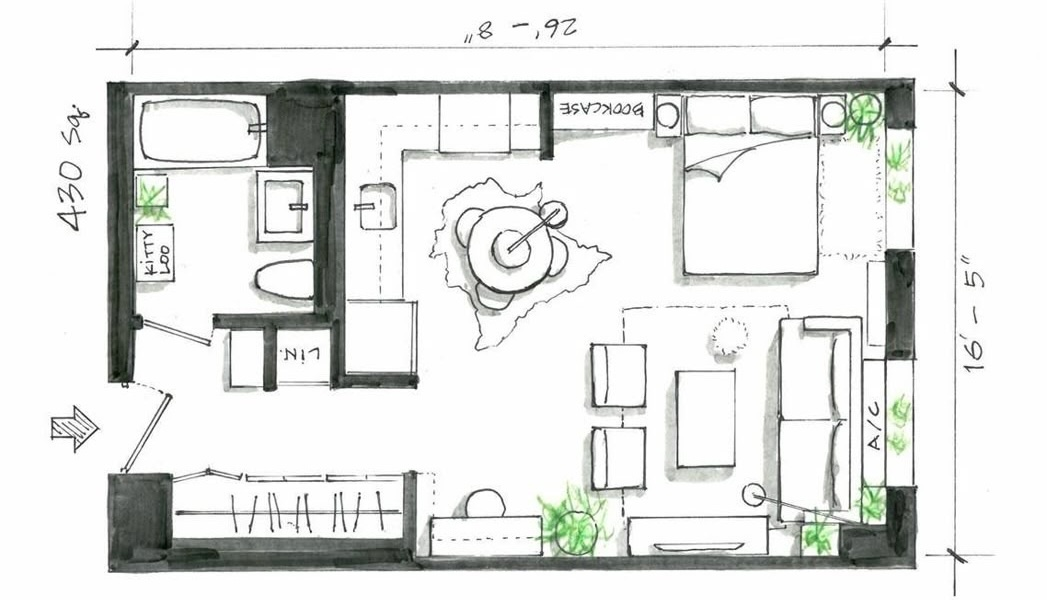
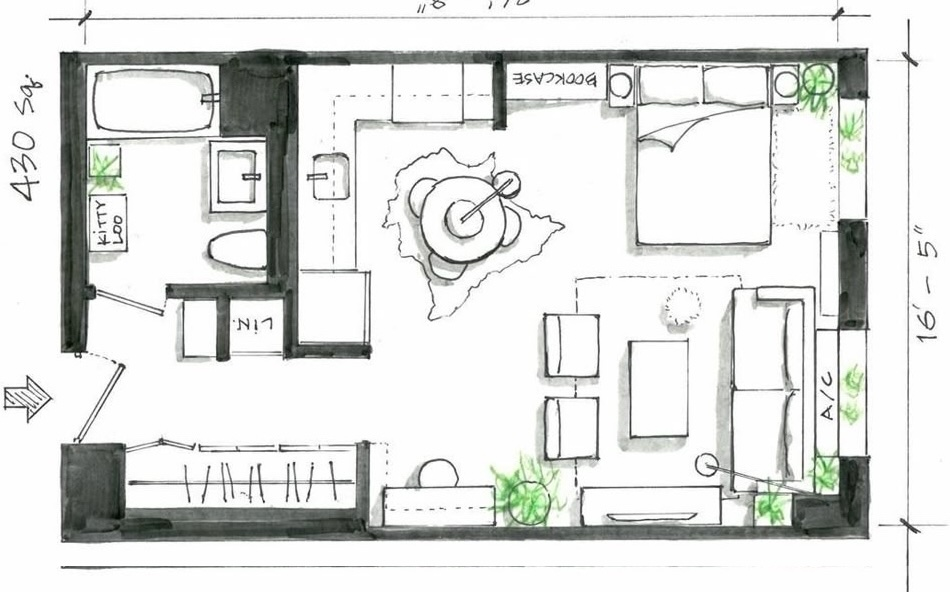
new design

diff --git a/src/index.css b/src/index.css
@@ -12,23 +12,56 @@
 }
 
 @plugin "daisyui/theme" {
-  name: "urbanhub";
-  default: true;
+  name: "uh-light";
   prefersdark: false;
   color-scheme: "light";
   --color-base-100: oklch(100% 0 0);
   --color-base-200: oklch(98% 0 0);
   --color-base-300: oklch(95% 0 0);
-  --color-base-content: oklch(21% 0.006 285.885);
-  --color-primary: #27548a;
-  --color-primary-content: #f0f4f8;
-  --color-secondary: #dda852;
-  --color-secondary-content: oklch(94% 0.028 342.258);
-  --color-accent: oklch(77% 0.152 181.912);
-  --color-accent-content: oklch(38% 0.063 188.416);
+  --color-base-content: oklch(0.293 0.041 280.8);
+  --color-primary: oklch(0.8693 0.204 94.27);
+  --color-primary-content: oklch(0.293 0.041 280.8);
+  --color-secondary: #5c63f5;
+  --color-secondary-content: #ffffff;
+  --color-accent: #3a44f1;
+  --color-accent-content: #eeedec;
   --color-neutral: oklch(14% 0.005 285.823);
   --color-neutral-content: oklch(92% 0.004 286.32);
-  --color-info: oklch(74% 0.16 232.661);
+  --color-info: #dee0fd;
+  --color-info-content: oklch(29% 0.066 243.157);
+  --color-success: oklch(76% 0.177 163.223);
+  --color-success-content: oklch(37% 0.077 168.94);
+  --color-warning: oklch(82% 0.189 84.429);
+  --color-warning-content: oklch(41% 0.112 45.904);
+  --color-error: oklch(71% 0.194 13.428);
+  --color-error-content: oklch(27% 0.105 12.094);
+  --radius-selector: 1rem;
+  --radius-field: 0.5rem;
+  --radius-box: 1rem;
+  --size-selector: 0.25rem;
+  --size-field: 0.25rem;
+  --border: 1px;
+  --depth: 1;
+  --noise: 0;
+}
+
+@plugin "daisyui/theme" {
+  name: "uh-dark";
+  prefersdark: true;
+  color-scheme: "dark";
+  --color-base-100: oklch(0.293 0.041 280.8);
+  --color-base-200: #505066;
+  --color-base-300: #737384;
+  --color-base-content: #eeedec;
+  --color-primary: oklch(0.8693 0.204 94.27);
+  --color-primary-content: oklch(0.293 0.041 280.8);
+  --color-secondary: #5c63f5;
+  --color-secondary-content: #ffffff;
+  --color-accent: #3a44f1;
+  --color-accent-content: #eeedec;
+  --color-neutral: oklch(14% 0.005 285.823);
+  --color-neutral-content: oklch(92% 0.004 286.32);
+  --color-info: #dee0fd;
   --color-info-content: oklch(29% 0.066 243.157);
   --color-success: oklch(76% 0.177 163.223);
   --color-success-content: oklch(37% 0.077 168.94);
@@ -97,10 +130,17 @@
   --rdp-accent-color: var(--color-primary);
   --rdp-months-gap: theme("spacing.4");
   font-size: theme("fontSize.sm");
+
+  --rdp-range_start-color: var(--color-primary-content);
+  --rdp-range_end-color: var(--color-primary-content);
+  --rdp-today-color: var(--color-primary-content);
+  --rdp-range_middle-background-color: var(--color-base-300);
 }
 .rdp-selected {
   font-size: inherit;
+  color: var(--color-primary-content);
 }
 .rdp-today {
   font-weight: bold;
+  color: var(--color-base-content) !important;
 }

diff --git a/src/screens/HomeScreen/widgets/MoodWidget.tsx b/src/screens/HomeScreen/widgets/MoodWidget.tsx
@@ -72,7 +72,7 @@ export function MoodWidget({ className }: MoodWidgetProps) {
                 key={id}
                 className={classNames(
                   "btn btn-sm",
-                  selectedMood === id && "btn-primary",
+                  selectedMood === id && "btn-secondary",
                 )}
                 style={{ fontWeight: selectedMood === id ? 500 : 400 }}
                 onClick={() => handleMoodClick(id)}
@@ -92,7 +92,7 @@ export function MoodWidget({ className }: MoodWidgetProps) {
               min="0"
               max="100"
               value={75}
-              className="range range-primary range-sm"
+              className="range range-secondary range-sm"
             />
           </div>
 
@@ -106,7 +106,7 @@ export function MoodWidget({ className }: MoodWidgetProps) {
               min="0"
               max="100"
               value={50}
-              className="range range-primary range-sm"
+              className="range range-secondary range-sm"
             />
           </div>
 
@@ -126,7 +126,7 @@ export function MoodWidget({ className }: MoodWidgetProps) {
                   key={color}
                   className={classNames(
                     "flex h-7 w-7 items-center justify-center rounded-full border-2",
-                    i === 1 ? "border-primary" : "border-transparent",
+                    i === 1 ? "border-secondary" : "border-transparent",
                   )}
                   style={{ backgroundColor: undefined }}
                 >
@@ -148,7 +148,7 @@ export function MoodWidget({ className }: MoodWidgetProps) {
               min="0"
               max="100"
               value={0}
-              className="range range-primary range-sm"
+              className="range range-secondary range-sm"
             />
           </div>
 
@@ -196,7 +196,7 @@ function MoodButton({ label, icon: Icon, selected, onClick }: MoodButtonProps) {
     <div
       className={classNames(
         "flex cursor-pointer items-center gap-3 rounded-md bg-base-300 px-2 py-2.5 transition-colors",
-        selected && "bg-primary/10 text-primary",
+        selected && "bg-secondary/10!",
       )}
       onClick={onClick}
     >

diff --git a/src/screens/HomeScreen/widgets/AmenityWidget.tsx b/src/screens/HomeScreen/widgets/AmenityWidget.tsx
@@ -1,10 +1,10 @@
 import classNames from "classnames";
 import { format } from "date-fns";
 import { ChevronDownIcon, type LucideIcon } from "lucide-react";
-import { Money } from "~/components/Money";
-import { OccupancyChart } from "~/components/OccupancyChart";
 
 import { BaseWidget } from "./BaseWidget";
+import { Money } from "~/components/Money";
+import { OccupancyChart } from "~/components/OccupancyChart";
 
 type OccupancyLevel = "low" | "mid" | "high" | "none";
 
@@ -68,7 +68,7 @@ export function AmenityWidget({
             <OccupancyChart />
           </div>
 
-          <div className="card bg-info/20 text-info-content card-sm">
+          <div className="card bg-info/50 text-info-content card-sm">
             <div className="card-body">
               <h3 className="card-title">Upgrade your stay</h3>
               <p>
@@ -87,7 +87,7 @@ export function AmenityWidget({
                     </span>
                     <span className="text-sm">/month</span>
                   </div>
-                  <button className="btn w-full btn-accent">Subscribe</button>
+                  <button className="btn w-full btn-primary">Subscribe</button>
                 </div>
 
                 <div className="flex=- divider mx-2 divider-horizontal text-info-content/60">
@@ -104,7 +104,7 @@ export function AmenityWidget({
                     </span>
                     <span className="text-sm">/day</span>
                   </div>
-                  <button className="btn w-full btn-primary">
+                  <button className="btn w-full btn-neutral">
                     Get Day Pass
                   </button>
                 </div>

diff --git a/src/screens/BookingFormScreen/SectionCard.tsx b/src/screens/BookingFormScreen/SectionCard.tsx
@@ -26,7 +26,7 @@ export function SectionCard({
     <div
       className={classNames(
         "flex flex-col rounded-box border-2 bg-base-100 shadow-lg transition-all duration-200",
-        isExpanded ? "flex-1 border-primary" : "border-transparent",
+        isExpanded ? "flex-1" : "border-transparent",
       )}
     >
       <button
@@ -39,7 +39,7 @@ export function SectionCard({
           className={classNames(
             "transition-all duration-200",
             isExpanded
-              ? "text-lg text-primary"
+              ? "text-lg text-base-content"
               : "text-sm text-base-content/50",
           )}
         >
@@ -49,7 +49,7 @@ export function SectionCard({
           <div
             className={classNames(
               "text-sm transition-all duration-200",
-              isExpanded ? "text-primary" : "text-base-content",
+              isExpanded ? "text-base-content" : "text-base-content",
             )}
           >
             {value}
@@ -57,7 +57,9 @@ export function SectionCard({
           <ChevronDown
             className={classNames(
               "h-4 w-4 transition-all duration-200",
-              isExpanded ? "rotate-180 text-primary" : "text-base-content/60",
+              isExpanded
+                ? "rotate-180 text-base-content"
+                : "text-base-content/60",
             )}
           />
         </div>

diff --git a/src/components/PricingChart.tsx b/src/components/PricingChart.tsx
@@ -51,7 +51,7 @@ export function PricingChart({
         {Array.from({ length: months }).map((_, i) => (
           <div
             key={i}
-            className="relative flex-1 cursor-pointer rounded-t-md bg-gray-300 hover:bg-gray-300/80 active:scale-98"
+            className="relative flex-1 cursor-pointer rounded-t-md bg-gray-200 hover:bg-gray-300/80 active:scale-98"
             style={{ height: calculateHeight(i) }}
             onClick={() => {
               setSelectedMonth(i);
@@ -75,7 +75,7 @@ export function PricingChart({
               <div
                 className={classNames(
                   "absolute bottom-full left-1/2 -translate-x-1/2",
-                  "pb-2 text-sm whitespace-nowrap text-primary",
+                  "pb-2 text-sm whitespace-nowrap",
                 )}
               >
                 <div className="flex flex-col items-center gap-1">

diff --git a/src/screens/HomeScreen/HomeScreen.tsx b/src/screens/HomeScreen/HomeScreen.tsx
@@ -37,7 +37,7 @@ export function HomeScreen() {
       <img
         src={blueprint}
         alt="Blueprint"
-        className="aspect-[1047/736] w-full"
+        className="mx-4 my-2 aspect-[950/592] w-[calc(100%-2rem)] rounded-box"
       />
 
       <div className="mx-8 flex justify-between">
@@ -61,7 +61,7 @@ export function HomeScreen() {
 
       <div className="m-4 flex flex-col gap-2">
         <Link to="/sublease">
-          <div className="card cursor-pointer bg-accent text-accent-content transition-all duration-200 select-none hover:bg-accent/80 active:scale-98">
+          <div className="card cursor-pointer bg-primary text-primary-content transition-all duration-200 select-none hover:bg-primary/80 active:scale-98">
             <div className="card-body">
               <button
                 className="btn absolute top-2 right-2 btn-circle btn-ghost btn-sm"

diff --git a/src/screens/SubleaseScreen/SubleaseScreen.tsx b/src/screens/SubleaseScreen/SubleaseScreen.tsx
@@ -75,8 +75,8 @@ export function SubleaseScreen() {
                 amount={opp.discount}
                 onApply={() => activateRequestForm(opp)}
                 classNames={{
-                  card: "!bg-accent/20",
-                  button: "!btn-accent",
+                  card: "!bg-primary/20",
+                  button: "!btn-primary",
                 }}
               />
             ))}
@@ -85,9 +85,7 @@ export function SubleaseScreen() {
               name="Make your own offer"
               when="choose dates"
               onApply={() => activateRequestForm(null)}
-              classNames={{
-                button: "!btn-primary",
-              }}
+              classNames={{ button: "btn-neutral" }}
             />
           </div>
         </div>

diff --git a/src/screens/BookingFormScreen/WhenSection.tsx b/src/screens/BookingFormScreen/WhenSection.tsx
@@ -59,7 +59,7 @@ export function StepType({ setStep }: StepProps) {
 
   const Card = ({ title, type, description }: CardProps) => (
     <button
-      className="card cursor-pointer bg-primary/10 shadow-sm hover:scale-98"
+      className="card cursor-pointer border-2 border-primary text-base-content shadow-sm hover:scale-98"
       onClick={() => handleSelect(type)}
     >
       <div className="card-body flex w-full flex-col items-center justify-center gap-2">

diff --git a/src/screens/HomeScreen/widgets/CleaningWidget.tsx b/src/screens/HomeScreen/widgets/CleaningWidget.tsx
@@ -94,7 +94,7 @@ export function CleaningWidget() {
       <div
         className={classNames(
           "flex flex-col items-center rounded-field px-2 py-1",
-          current && "bg-primary/10 text-base-content",
+          current && "bg-base-300 text-base-content",
           active && "bg-primary text-primary-content",
         )}
       >

diff --git a/src/screens/BookingFormScreen/LocationPopup.tsx b/src/screens/BookingFormScreen/LocationPopup.tsx
@@ -120,8 +120,8 @@ const createMapPinMarker = (
       size={size}
       className={classNames(
         isHighlighted
-          ? "fill-primary text-white"
-          : "fill-base-200 text-primary",
+          ? "fill-base-100 text-base-content"
+          : "fill-base-content text-base-100",
       )}
     />,
   );

diff --git a/src/screens/BookingFormScreen/ApartmentTypeCard.tsx b/src/screens/BookingFormScreen/ApartmentTypeCard.tsx
@@ -39,7 +39,7 @@ export function ApartmentTypeCard({
           from{" "}
           <Money
             amount={spec.monthlyRent[1]}
-            className="font-semibold text-primary"
+            className="font-semibold text-base-content"
           />{" "}
           / month
         </div>

diff --git a/src/App.tsx b/src/App.tsx
@@ -29,7 +29,7 @@ function App() {
   return (
     <div
       className="grid h-dvh w-dvw place-items-center font-inter"
-      data-theme="urbanhub"
+      data-theme="uh-light"
     >
       <PhoneFrame>
         <Screen withTabs>
